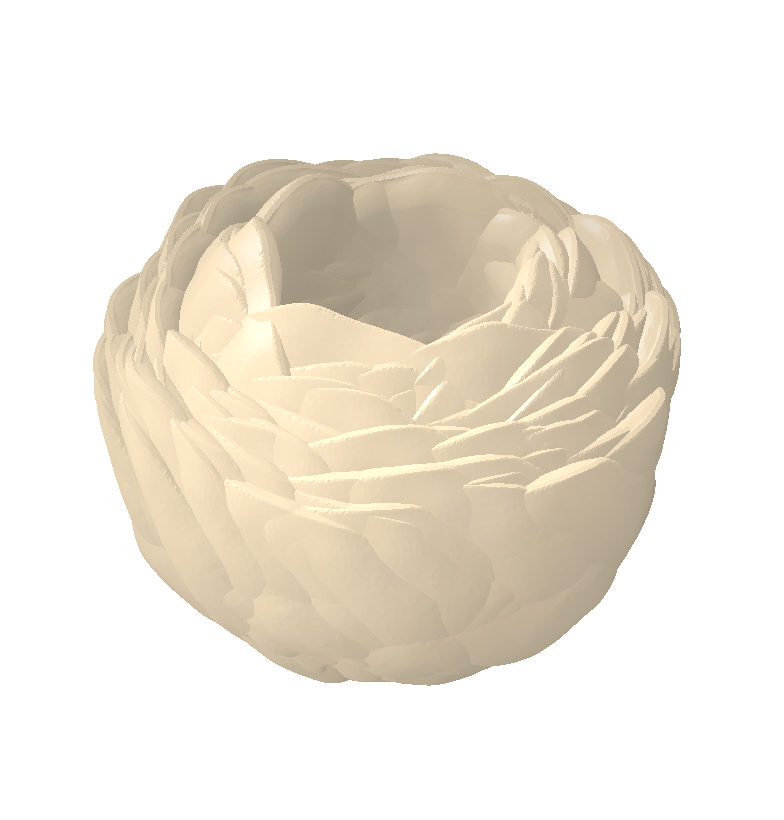
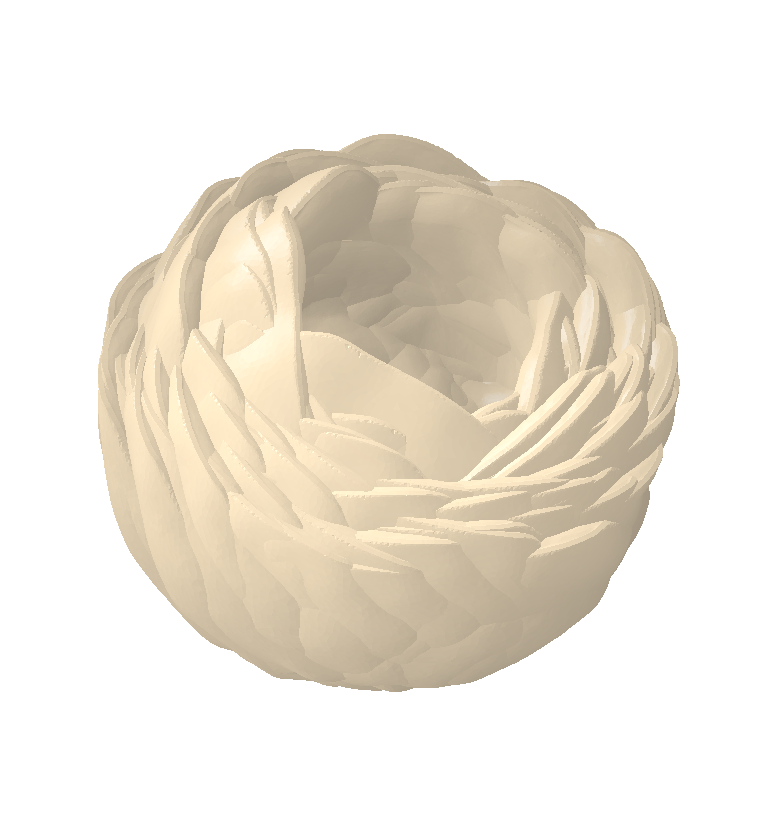
Auto orient

diff --git a/main.py b/main.py
@@ -37,6 +37,19 @@ def hello_server():
                     )
                 )
 
+        # Auto orient
+        preform.api.auto_orient(
+            scene_id=scene.id,
+            auto_orient_request=models.AutoOrientRequest(
+                models.DentalMode(
+                    mode="DENTAL",
+                    tilt=15
+                )
+            )
+        )
+
+
+
         # Screenshot workspace
         preform.api.save_screenshot(
             scene_id = scene.id,
